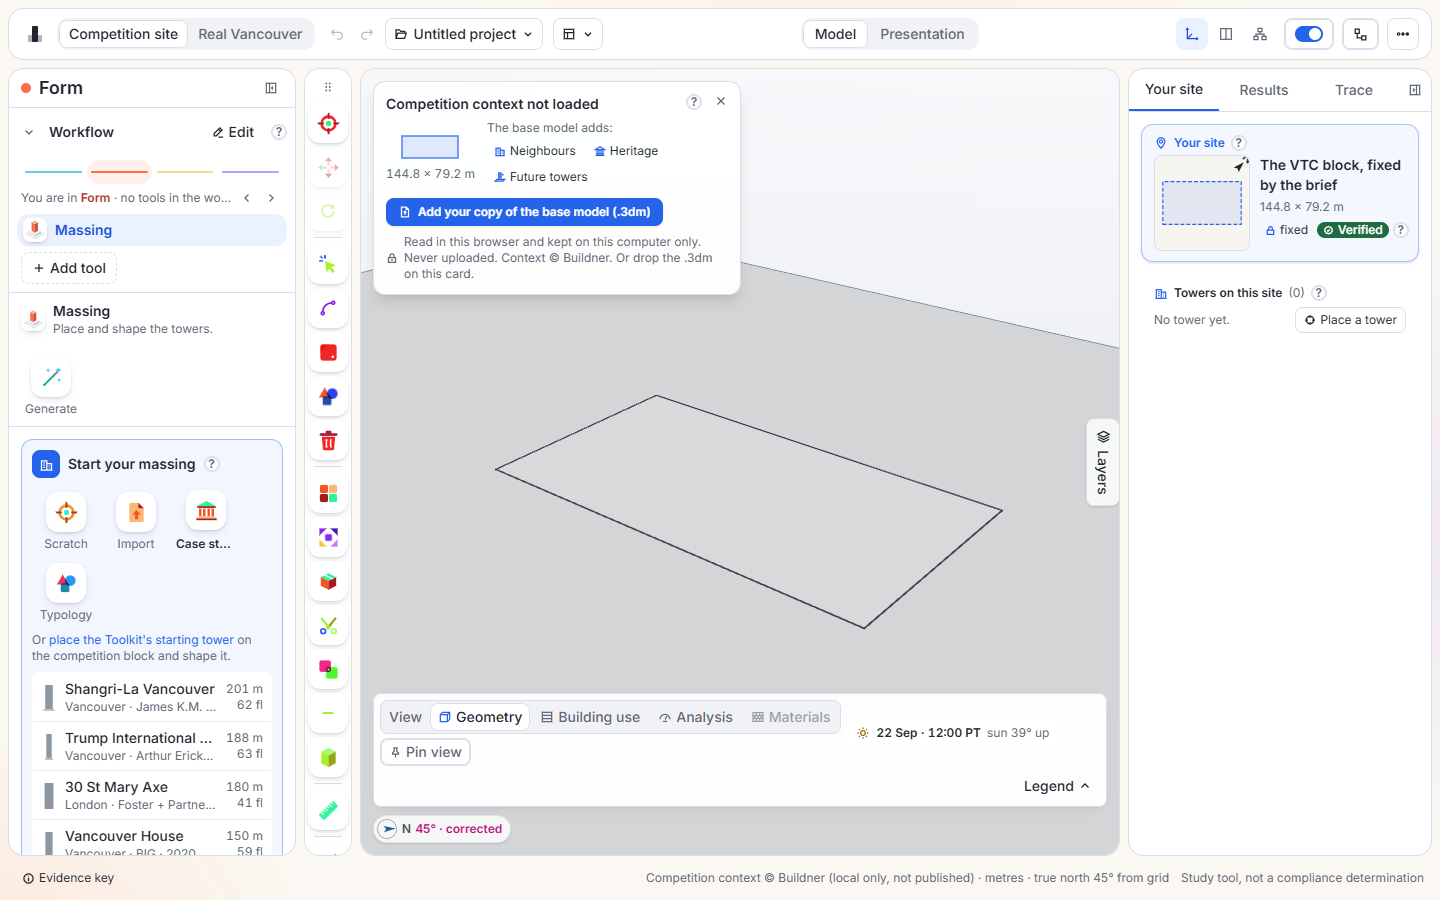
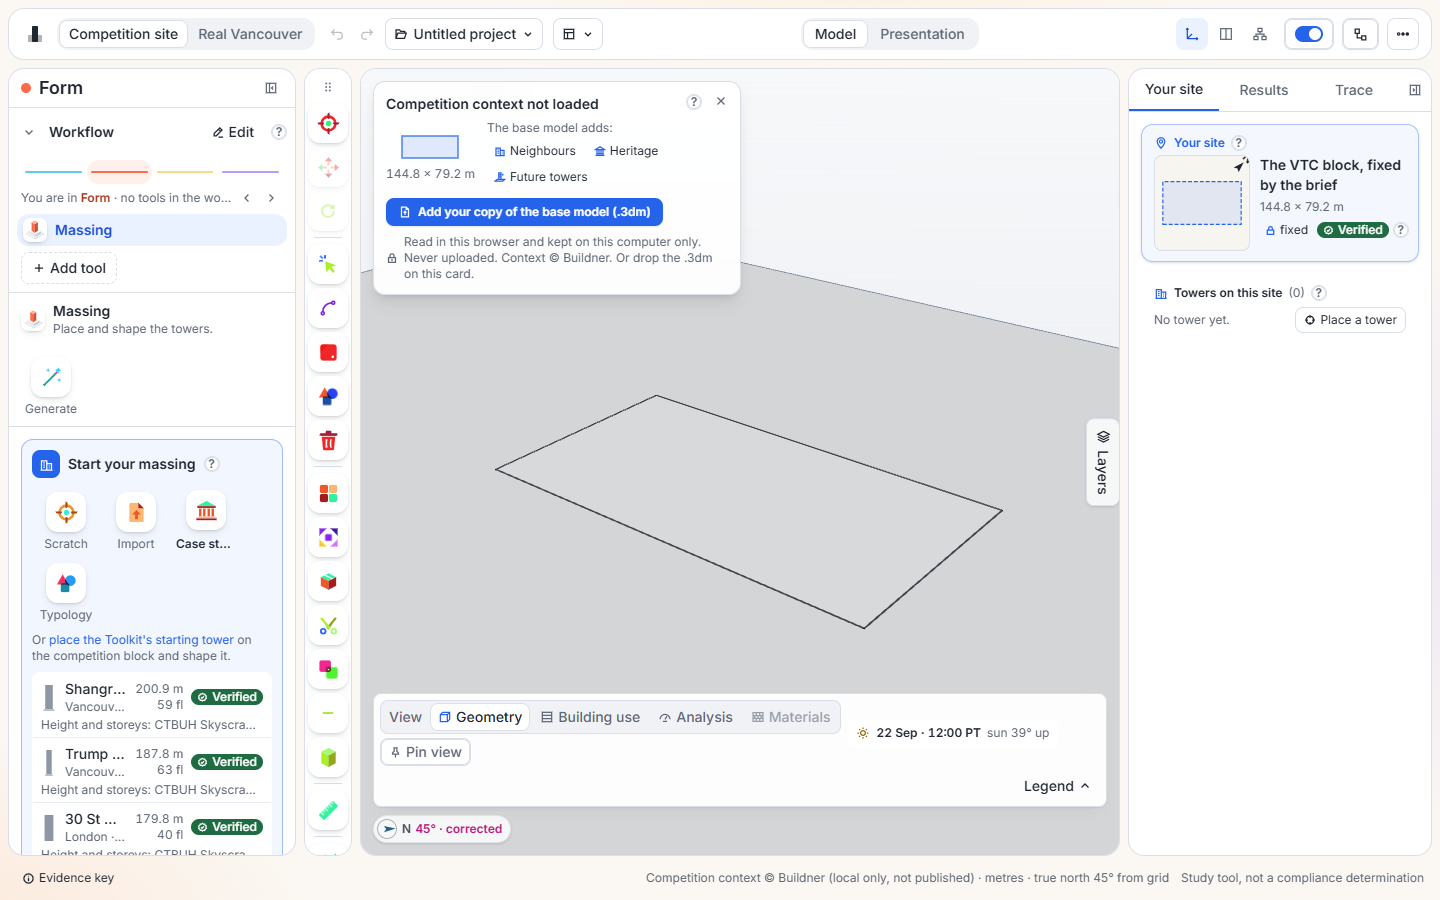
Case studies: height and storeys checked against the CTBUH Skyscraper Center, source and date on each row
The eight named towers are verified (architectural height and floors above ground, read 17 Nov 2026), with the
corrections from the ported list recorded on each row: Shangri-La 200.9 m, 59 storeys, 2009; Trump 187.8 m;
30 St Mary Axe 179.8 m, 40; Vancouver House 155.6 m, 52; One Wall Centre 149.8 m; 432 Park 425.7 m; Aqua 261.8 m, 86;
Leadenhall 224.5 m. The point tower is a type with no source and stays unverified; plates and podiums stay
approximate and unverified. The list shows each row's flag and its source link; a test holds every row to a source or
the unverified flag.

Changed region(s): [[0.0312, 0.7467, 0.1875, 0.9644]]

diff --git a/src/lib/draw/caseStudies.ts b/src/lib/draw/caseStudies.ts
@@ -1,25 +1,47 @@
 // Case-study towers for "Start your massing" (Sinnie Choi's Toolkit build, artifact 1794900977-6d89, ported 17 Nov
 // 2026 at Ruijie's request; source of the design: her build and github.com/xubynii/towerdesigntool). Each row is a
 // known tower with its published height and storeys and an approximate plate and podium; picking one places a tower
-// with those numbers, then asks where it stands. Every number is hers and unverified (no source opened here), so each
-// row keeps the flag; her note says what is simplified. Plans and podiums approximate; twists and tapers not modelled.
+// with those numbers, then asks where it stands. Height and storeys were checked on 17 Nov 2026 against the CTBUH
+// Skyscraper Center page of each tower (the architectural height, the floors above ground); a row with a source is
+// verified, and `changed` says where Sinnie's number was corrected. The plate and podium sizes are hers, approximate
+// and unverified in every row; her note says what is simplified. Twists and tapers are not modelled. The "point
+// tower" is a type, not a building: it has no source and stays unverified.
+export interface CaseSource { url: string; /** ISO date the page was read. */ accessed: string; /** What the page is. */ what: string }
 export interface CaseStudy {
   id: string; name: string; place: string; architect: string; year: number
-  height: number; storeys: number; width: number; depth: number
-  podiumHeight: number; podiumWidth: number; podiumDepth: number
+  /** Architectural height in metres and floors above ground, as the source gives them. */
+  height: number; storeys: number
+  /** Plate and podium: approximate, unverified. */
+  width: number; depth: number; podiumHeight: number; podiumWidth: number; podiumDepth: number
+  /** Height and storeys: `verified` when `source` confirms them, else `unverified`. The plate and podium are always unverified. */
+  flag: 'verified' | 'unverified'
+  source?: CaseSource
+  /** Where the checked number differs from the ported list, the correction made. */
+  changed?: string
   note: string
 }
 
+const CTBUH = (slug: string, id: number): CaseSource => ({ url: `https://www.skyscrapercenter.com/building/${slug}/${id}`, accessed: '2026-11-17', what: 'CTBUH Skyscraper Center' })
+
 export const CASE_STUDIES: CaseStudy[] = [
-  { id: 'shangri-la-vancouver', name: 'Shangri-La Vancouver', place: 'Vancouver', architect: 'James K.M. Cheng', year: 2008, height: 201, storeys: 62, width: 42, depth: 26, podiumHeight: 15, podiumWidth: 60, podiumDepth: 40, note: 'Slender slab over a hotel podium; plate and podium approximate.' },
-  { id: 'trump-vancouver', name: 'Trump International Hotel & Tower', place: 'Vancouver', architect: 'Arthur Erickson', year: 2016, height: 188, storeys: 63, width: 30, depth: 30, podiumHeight: 10, podiumWidth: 45, podiumDepth: 40, note: 'The 45° twist at mid-height is not modelled.' },
-  { id: 'st-mary-axe', name: '30 St Mary Axe', place: 'London', architect: 'Foster + Partners', year: 2004, height: 180, storeys: 41, width: 49, depth: 49, podiumHeight: 0, podiumWidth: 49, podiumDepth: 49, note: 'Round, bulging plan: modelled as its widest square.' },
-  { id: 'vancouver-house', name: 'Vancouver House', place: 'Vancouver', architect: 'BIG', year: 2020, height: 150, storeys: 59, width: 40, depth: 24, podiumHeight: 10, podiumWidth: 60, podiumDepth: 40, note: 'The base narrows to a triangle and widens as it rises: modelled as its upper plate.' },
-  { id: 'one-wall-centre', name: 'One Wall Centre', place: 'Vancouver', architect: 'Busby + Associates', year: 2001, height: 150, storeys: 48, width: 44, depth: 26, podiumHeight: 8, podiumWidth: 55, podiumDepth: 40, note: 'Elliptical plan: modelled as its bounding box.' },
-  { id: '432-park', name: '432 Park Avenue', place: 'New York', architect: 'Rafael Viñoly', year: 2015, height: 426, storeys: 85, width: 28.5, depth: 28.5, podiumHeight: 0, podiumWidth: 28.5, podiumDepth: 28.5, note: 'A square tube; the open double-storey mechanical floors are not modelled.' },
-  { id: 'aqua-chicago', name: 'Aqua', place: 'Chicago', architect: 'Studio Gang', year: 2009, height: 262, storeys: 82, width: 50, depth: 28, podiumHeight: 25, podiumWidth: 75, podiumDepth: 55, note: 'The wavy balconies are not modelled.' },
-  { id: 'leadenhall', name: 'The Leadenhall Building', place: 'London', architect: 'Rogers Stirk Harbour + Partners', year: 2014, height: 225, storeys: 52, width: 50, depth: 45, podiumHeight: 0, podiumWidth: 50, podiumDepth: 45, note: 'The tapering wedge and the open base are not modelled: the base plate is used.' },
-  { id: 'vancouver-point-tower', name: 'Vancouver point tower', place: 'Downtown Vancouver (type)', architect: 'Typical residential', year: 2020, height: 110, storeys: 36, width: 25, depth: 25, podiumHeight: 12, podiumWidth: 40, podiumDepth: 35, note: 'A typical slim residential tower (about 625 m² plate) on a townhouse podium.' },
+  { id: 'shangri-la-vancouver', name: 'Shangri-La Vancouver', place: 'Vancouver', architect: 'James K.M. Cheng', year: 2009, height: 200.9, storeys: 59, width: 42, depth: 26, podiumHeight: 15, podiumWidth: 60, podiumDepth: 40,
+    flag: 'verified', source: CTBUH('shangri-la-vancouver', 1639), changed: 'Was 201 m, 62 storeys, 2008: the Skyscraper Center gives 200.9 m, 59 floors, completed 2009.', note: 'Slender slab over a hotel podium; plate and podium approximate.' },
+  { id: 'trump-vancouver', name: 'Trump International Hotel & Tower', place: 'Vancouver', architect: 'Arthur Erickson', year: 2016, height: 187.8, storeys: 63, width: 30, depth: 30, podiumHeight: 10, podiumWidth: 45, podiumDepth: 40,
+    flag: 'verified', source: CTBUH('trump-international-hotel-tower-vancouver', 2196), changed: 'Was 188 m: the Skyscraper Center gives 187.8 m (listed as 1133 West Georgia); 63 floors confirmed.', note: 'The 45° twist at mid-height is not modelled.' },
+  { id: 'st-mary-axe', name: '30 St Mary Axe', place: 'London', architect: 'Foster + Partners', year: 2004, height: 179.8, storeys: 40, width: 49, depth: 49, podiumHeight: 0, podiumWidth: 49, podiumDepth: 49,
+    flag: 'verified', source: CTBUH('30-st-mary-axe', 2369), changed: 'Was 180 m, 41 storeys: the Skyscraper Center gives 179.8 m, 40 floors.', note: 'Round, bulging plan: modelled as its widest square.' },
+  { id: 'vancouver-house', name: 'Vancouver House', place: 'Vancouver', architect: 'BIG', year: 2020, height: 155.6, storeys: 52, width: 40, depth: 24, podiumHeight: 10, podiumWidth: 60, podiumDepth: 40,
+    flag: 'verified', source: CTBUH('vancouver-house', 13987), changed: 'Was 150 m, 59 storeys: the Skyscraper Center gives 155.6 m, 52 floors.', note: 'The base narrows to a triangle and widens as it rises: modelled as its upper plate.' },
+  { id: 'one-wall-centre', name: 'One Wall Centre', place: 'Vancouver', architect: 'Busby + Associates', year: 2001, height: 149.8, storeys: 48, width: 44, depth: 26, podiumHeight: 8, podiumWidth: 55, podiumDepth: 40,
+    flag: 'verified', source: CTBUH('one-wall-centre', 4069), changed: 'Was 150 m: the Skyscraper Center gives 149.8 m; 48 floors confirmed.', note: 'Elliptical plan: modelled as its bounding box.' },
+  { id: '432-park', name: '432 Park Avenue', place: 'New York', architect: 'Rafael Viñoly', year: 2015, height: 425.7, storeys: 85, width: 28.5, depth: 28.5, podiumHeight: 0, podiumWidth: 28.5, podiumDepth: 28.5,
+    flag: 'verified', source: CTBUH('432-park-avenue', 13227), changed: 'Was 426 m: the Skyscraper Center gives 425.7 m; 85 floors confirmed.', note: 'A square tube; the open double-storey mechanical floors are not modelled.' },
+  { id: 'aqua-chicago', name: 'Aqua', place: 'Chicago', architect: 'Studio Gang', year: 2009, height: 261.8, storeys: 86, width: 50, depth: 28, podiumHeight: 25, podiumWidth: 75, podiumDepth: 55,
+    flag: 'verified', source: CTBUH('aqua-at-lakeshore-east', 886), changed: 'Was 262 m, 82 storeys: the Skyscraper Center gives 261.8 m, 86 floors (listed as Aqua at Lakeshore East).', note: 'The wavy balconies are not modelled.' },
+  { id: 'leadenhall', name: 'The Leadenhall Building', place: 'London', architect: 'Rogers Stirk Harbour + Partners', year: 2014, height: 224.5, storeys: 52, width: 50, depth: 45, podiumHeight: 0, podiumWidth: 50, podiumDepth: 45,
+    flag: 'verified', source: CTBUH('the-leadenhall-building', 1194), changed: 'Was 225 m: the Skyscraper Center gives 224.5 m; 52 floors confirmed.', note: 'The tapering wedge and the open base are not modelled: the base plate is used.' },
+  { id: 'vancouver-point-tower', name: 'Vancouver point tower', place: 'Downtown Vancouver (type)', architect: 'Typical residential', year: 2020, height: 110, storeys: 36, width: 25, depth: 25, podiumHeight: 12, podiumWidth: 40, podiumDepth: 35,
+    flag: 'unverified', note: 'A typical slim residential tower (about 625 m² plate) on a townhouse podium: a type, not a building, so no source.' },
 ]
 
 /** The tower fields a case study sets: its numbers, and a floor-to-floor that gives its storey count. */

diff --git a/src/components/draw/StartMassing.tsx b/src/components/draw/StartMassing.tsx
@@ -4,7 +4,7 @@
 // hover. From scratch starts the Rectangle tool (Ruijie's brief); the Toolkit's starting tower stays as a link (twenty
 // browser tests drive; the rail's Rectangle then draws footprints). Import opens the same platform tiles as the
 // Import tool. Case study places one of nine known towers with its published height and storeys and an approximate
-// plate and podium (every row unverified, her note on hover), then asks where it stands. Typology shows her tower-form
+// plate and podium (height and storeys checked against the CTBUH Skyscraper Center on 17 Nov, the plate and podium hers and unverified; her note on hover), then asks where it stands. Typology shows her tower-form
 // presets above the Generate tool.
 import { setDrawTool, toast } from '../../lib/draw/drawStore'
 import { Suspense, lazy, useState } from 'react'
@@ -61,7 +61,7 @@ export default function StartMassing({ onGenerate }: { onGenerate?: () => void }
       <div className="mt-2 flex flex-wrap gap-0.5" role="group" aria-label="Start your massing">
         <IconTile icon={Crosshair} word="Scratch" label="From scratch: draw a footprint" hint="Starts the Rectangle tool: drag a footprint on the ground, then push it up; Line and Circle draw other outlines." data-start="scratch" onClick={() => pick('scratch')} />
         <IconTile icon={FileUp} word="Import" label="Import a model" hint="A model from Rhino, Revit, Archicad, AutoCAD, SketchUp or any OBJ, glTF or IFC file; the same import as the project menu's Import › 3D model." active={open === 'import'} aria-expanded={open === 'import'} data-start="import" onClick={() => pick('import')} />
-        <IconTile icon={Landmark} word="Case study" label="Case study: a known tower" hint="Nine known towers with their published height and storeys and an approximate plate and podium; one click places it, then you say where it stands. Every row is unverified." active={open === 'case'} aria-expanded={open === 'case'} data-start="case" onClick={() => pick('case')} />
+        <IconTile icon={Landmark} word="Case study" label="Case study: a known tower" hint="Nine towers with their published height and storeys (eight checked against the CTBUH Skyscraper Center, one a type) and an approximate plate and podium; one click places it, then you say where it stands." active={open === 'case'} aria-expanded={open === 'case'} data-start="case" onClick={() => pick('case')} />
         <IconTile icon={Shapes} word="Typology" label="Typology: a tower-form preset" hint="Tapered shaft, twisting tower, set-back tiers or shifted stack, with sliders; or generate a massing from a brief." active={open === 'typology'} aria-expanded={open === 'typology'} data-start="typology" onClick={() => pick('typology')} />
       </div>
       <p className="mt-1.5 text-meta text-muted">Or <button type="button" onClick={placeFirstTower} data-testid="place-tower" className="text-accent underline-offset-2 outline-none hover:underline focus-visible:ring-2 focus-visible:ring-accent">place the Toolkit's starting tower</button> {where ?? 'downtown'} and shape it.</p>
@@ -76,7 +76,7 @@ export default function StartMassing({ onGenerate }: { onGenerate?: () => void }
           <ol className="max-h-72 overflow-y-auto" style={{ scrollbarWidth: 'thin' }}>
             {CASE_STUDIES.map((c) => (
               <li key={c.id} className="border-b border-line/60 last:border-0">
-                <button type="button" onClick={() => placeCaseStudy(c)} data-case={c.id} title={`${c.note} Unverified: the numbers are from the case-study list, no source opened here.`}
+                <button type="button" onClick={() => placeCaseStudy(c)} data-case={c.id} data-flag={c.flag} title={`${c.note} ${c.source ? `Height and storeys verified against ${c.source.what} (${c.source.accessed}).${c.changed ? ` ${c.changed}` : ''}` : 'Unverified: no source for a type.'} Plate and podium approximate, unverified.`}
                   className="flex w-full items-center gap-2 px-2 py-1.5 text-left outline-none hover:bg-subtle focus-visible:ring-2 focus-visible:ring-accent">
                   <Elevation c={c} />
                   <span className="min-w-0 flex-1">
@@ -84,11 +84,13 @@ export default function StartMassing({ onGenerate }: { onGenerate?: () => void }
                     <span className="block truncate text-meta text-muted">{c.place} · {c.architect} · {c.year}</span>
                   </span>
                   <span className="shrink-0 text-right text-meta tabular-nums text-muted">{c.height} m<br />{c.storeys} fl</span>
+                  <FlagChip flag={c.flag} />
                 </button>
+                {c.source && <a href={c.source.url} target="_blank" rel="noopener noreferrer" data-case-source={c.id} className="-mt-1 block truncate px-2 pb-1 text-meta text-muted underline-offset-2 hover:text-accent hover:underline">Height and storeys: {c.source.what}, read {c.source.accessed}{c.changed ? ' · corrected' : ''}</a>}
               </li>
             ))}
           </ol>
-          <p className="flex items-center gap-1.5 border-t border-line px-2 py-1 text-meta text-muted"><FlagChip flag="unverified" />Plans and podiums approximate; twists and tapers not modelled.</p>
+          <p className="flex items-center gap-1.5 border-t border-line px-2 py-1 text-meta text-muted"><FlagChip flag="unverified" />Plans and podiums approximate; twists and tapers not modelled. Height and storeys are verified where a row shows its source.</p>
         </div>
       )}
       {open === 'typology' && (

diff --git a/src/lib/draw/caseStudies.test.ts b/src/lib/draw/caseStudies.test.ts
@@ -1,0 +1,38 @@
+import { describe, expect, it } from 'vitest'
+import { CASE_STUDIES, caseStudyPatch } from './caseStudies'
+
+// Each case-study row is verified only with a source (a URL and the date it was read) that confirms its height and
+// storeys; a row with no source stays unverified. The plate and podium are approximate in every row.
+describe('the case-study towers', () => {
+  it('every row has a source and is verified, or stays unverified', () => {
+    for (const c of CASE_STUDIES) {
+      if (c.source) {
+        expect(c.flag, c.name).toBe('verified')
+        expect(c.source.url, c.name).toMatch(/^https:\/\/\S+$/)
+        expect(c.source.accessed, c.name).toMatch(/^\d{4}-\d{2}-\d{2}$/)
+        expect(c.source.what, c.name).toBeTruthy()
+      } else expect(c.flag, c.name).toBe('unverified')
+    }
+  })
+  it('the known buildings carry the CTBUH Skyscraper Center page; the type has none', () => {
+    const named = CASE_STUDIES.filter((c) => c.id !== 'vancouver-point-tower')
+    expect(named).toHaveLength(8)
+    for (const c of named) expect(c.source?.url, c.name).toContain('skyscrapercenter.com/building/')
+    const type = CASE_STUDIES.find((c) => c.id === 'vancouver-point-tower')!
+    expect(type.flag).toBe('unverified')
+    expect(type.source).toBeUndefined()
+  })
+  it('a corrected number says what it was', () => {
+    const vh = CASE_STUDIES.find((c) => c.id === 'vancouver-house')!
+    expect(vh).toMatchObject({ height: 155.6, storeys: 52 })
+    expect(vh.changed).toMatch(/150 m, 59 storeys/)
+  })
+  it('places a tower with the row\'s height and a floor-to-floor that gives its storeys', () => {
+    for (const c of CASE_STUDIES) {
+      const p = caseStudyPatch(c)
+      expect(p.height).toBe(c.height)
+      expect(p.f2f).toBeGreaterThan(2.5)
+      expect(p.f2f).toBeLessThan(6)
+    }
+  })
+})

diff --git a/e2e/drawing-tools.e2e.ts b/e2e/drawing-tools.e2e.ts
@@ -181,7 +181,7 @@ test('Drawing tools: rectangle, push / pull, offset, copy, split, union, erase, 
   await expect.poll(async () => (await masses(p)).length).toBe(1)
   const vh = (await masses(p))[0]
   expect(vh.name).toBe('Vancouver House')
-  expect(vh.height).toBe(150)
+  expect(vh.height).toBe(155.6) // the Skyscraper Center's architectural height (checked 17 Nov)
   await p.keyboard.press('Escape')
   await p.waitForTimeout(1500)
   await p.keyboard.press('b')

diff --git a/CHECKPOINT.md b/CHECKPOINT.md
@@ -39,6 +39,12 @@ Decisions mine (approved in advance). Not merged to main, not deployed; `sinnie-
   names kept); on `ui-drawer` the Interface button does the same. `e2e/no-overflow.e2e.ts` measures no horizontal
   overflow in both modes, on both projects, at 1,440 × 900 and 1,280 × 800 (PASS on model-presentation, ui-drawer and
   this tip, with layout, model-presentation, ui-drawer and drawing-tools).
+- **Case studies checked (later on 17 Nov):** the eight named towers' height and storeys were read on the CTBUH Skyscraper
+  Center (architectural height, floors above ground; URL and date on each row, `lib/draw/caseStudies.ts`) and are now
+  verified; corrected: Shangri-La 201 → 200.9 m, 62 → 59 storeys, 2008 → 2009; Trump 188 → 187.8 m; 30 St Mary Axe 180 →
+  179.8 m, 41 → 40; Vancouver House 150 → 155.6 m, 59 → 52; One Wall Centre 150 → 149.8 m; 432 Park 426 → 425.7 m; Aqua
+  262 → 261.8 m, 82 → 86; Leadenhall 225 → 224.5 m. The point tower is a type with no source and stays unverified; plates
+  and podiums stay approximate and unverified. `caseStudies.test.ts` holds every row to a source or the unverified flag.
 - **Judged not a bug:** FSR already reads the parts of one building as one (their floor areas add, they do not
   overlap). The Boolean union's parts keeping their own heights is Sinnie's rule, kept.
 - **Tests:** `tsc -b` PASS on every branch touched · `vitest run` 1,282 pass, 3 skipped (+19 new: `lib/draw/keys.test.ts` where a key counts; `lib/draw/boolean.test.ts` cut pieces and the 4 m² rule; `lib/draw/drawStore.test.ts` the tool ends with the step and the stage, the key map; `lib/draw/mass.test.ts` a mesh per shape found again by Undo, a copy from its source, rotate with holes and core, offset into a courtyard refused, one core per building and a move through the tower tools, a stacked mass starting at its base; `engine/publicRealm.test.ts` parts are no pair; `components/tools/toolPick.test.ts` an empty step stays closed; `lib/ui/registry.test.ts` the phases line locked, a layer's state kept; `lib/fonts/fontFile.test.ts` a built-in name refused; the same 2 CRLF data-file checks fail in this worktree only) · Edge e2e on the `sinnie-modelling` tip: `drawing-tools` (+ From scratch starts Rectangle; a wall taken near its top and let go after a pixel stays put) PASS · `tool-rail` PASS · `massing-edit` PASS · `model-presentation` PASS · `import-sync` PASS · `ui-drawer` PASS · `board-fonts` PASS · `journeys` PASS; `board-fonts` also on its own branch, `ui-drawer` and `import-sync` on the ui-drawer branch. Screenshots refreshed: `docs/evaluation/2026-11-17-drawing-tools/01-start-massing.png` (the tiles with the starting-tower link) and `02-drawing.png`.
